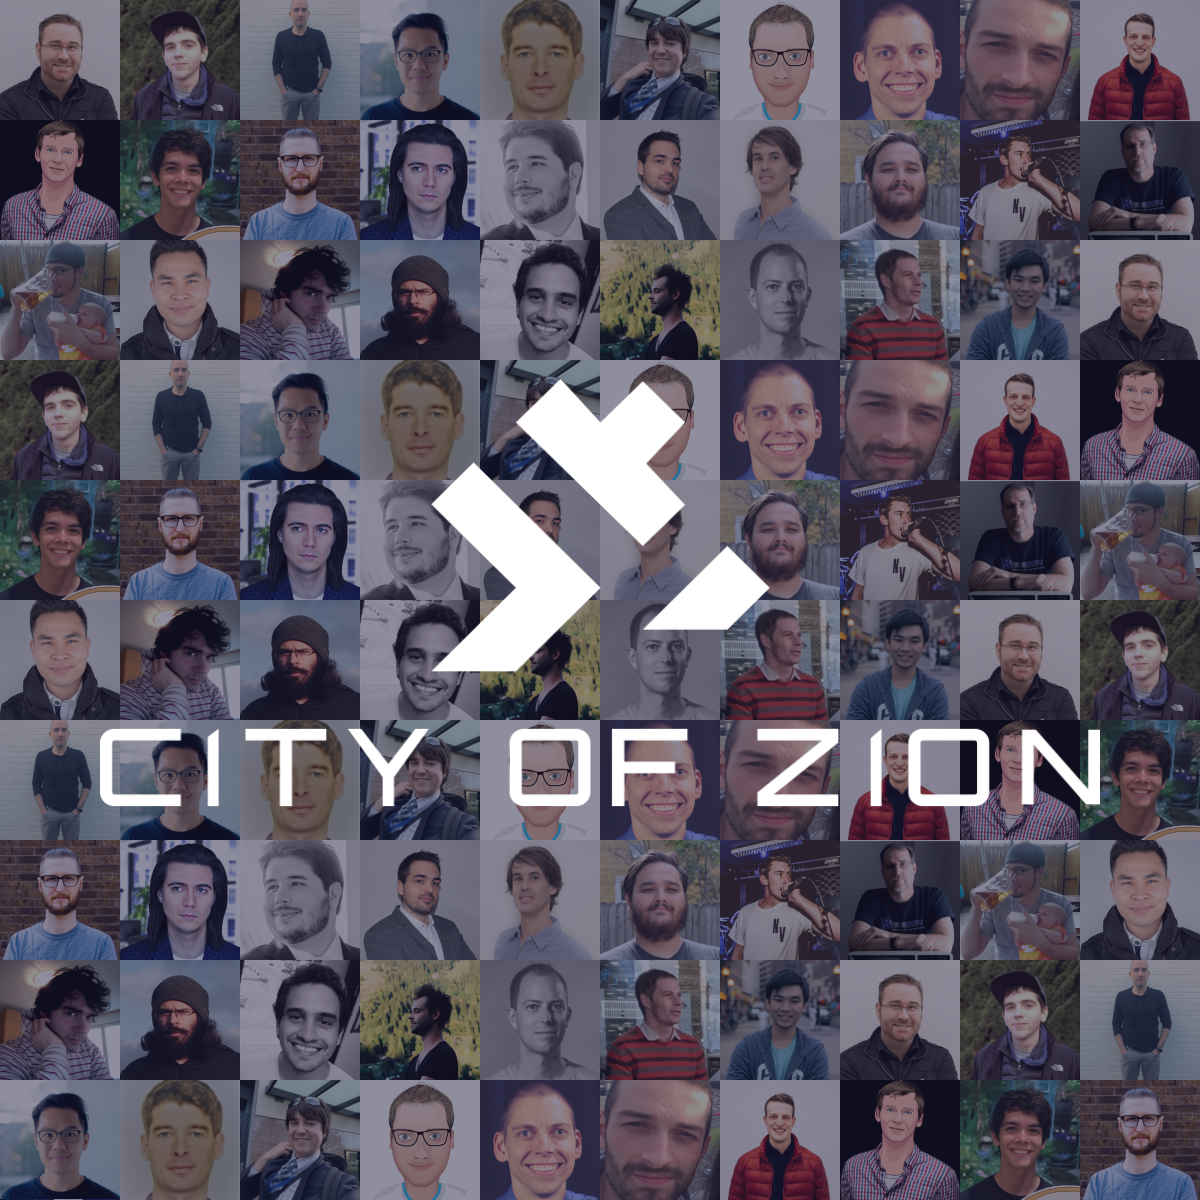
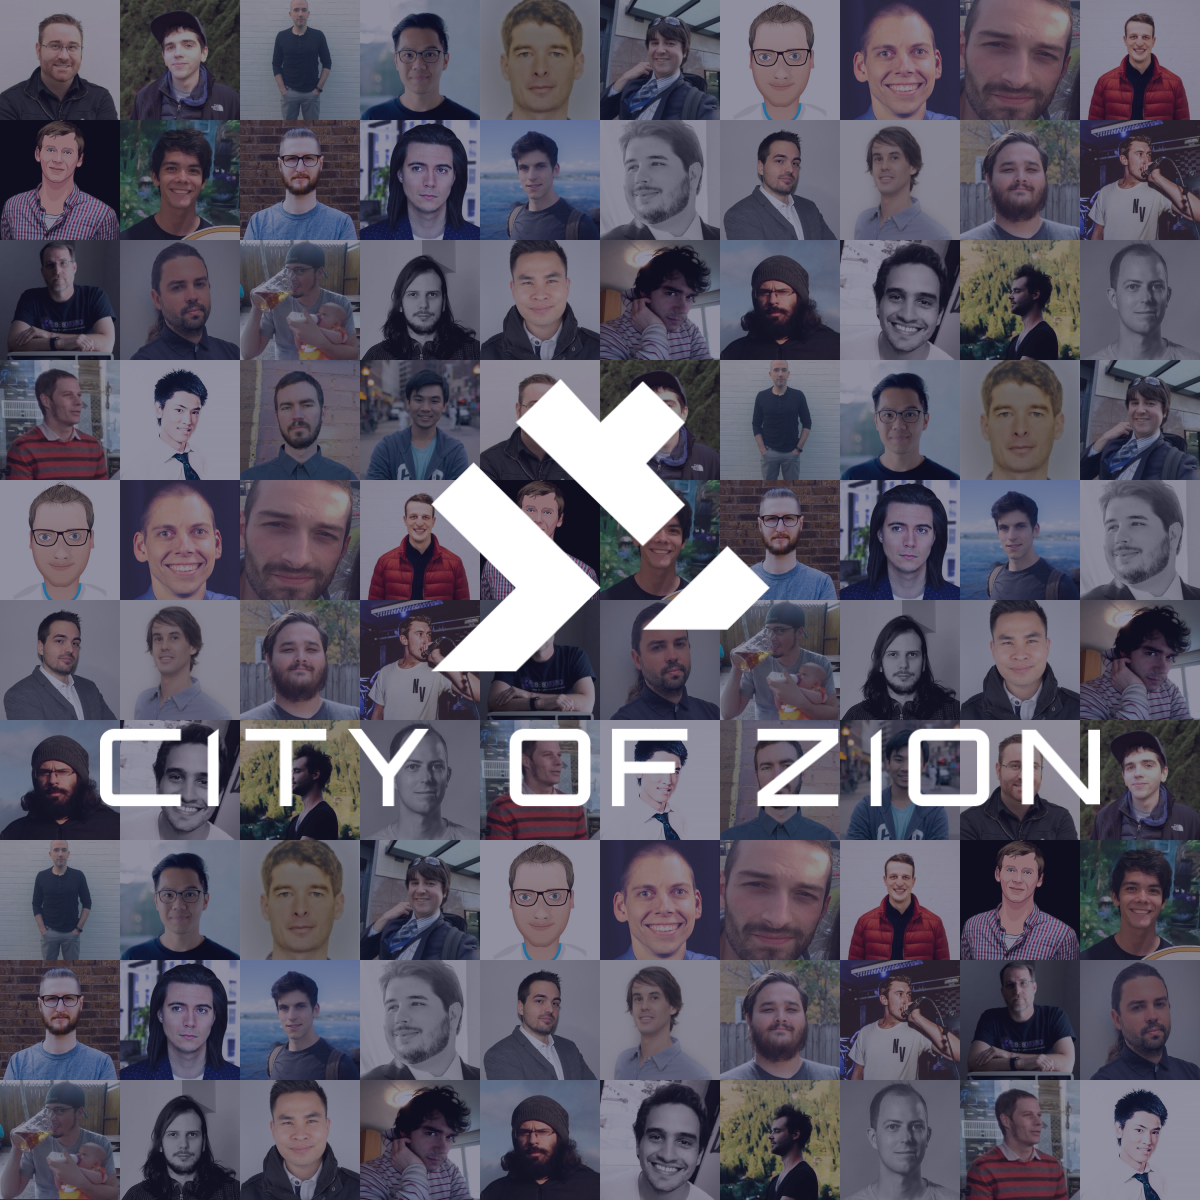
Gulp skips the anonymous image

diff --git a/gulpfile.js b/gulpfile.js
@@ -19,7 +19,6 @@ gulp.task('generateTeamOpengraph', function(callbackFinish){
 	//new arary for images
 	team_images = [];
 
-
 	function filterArray(array,pattern) {
 		return_array = [];
 		array.forEach(function(image) {
@@ -67,7 +66,9 @@ gulp.task('generateTeamOpengraph', function(callbackFinish){
     	file_reads.push(new Jimp(opengraph_width, opengraph_height,0x1D1D3FFF))
 		//loop files
 	    filenames.forEach(function(image) {
-			file_reads.push(Jimp.read(team_image_folder+"/"+image));
+		    if (image != "anonymous.jpg") {
+				file_reads.push(Jimp.read(team_image_folder+"/"+image));
+			}
 		});
 
 		Promise.all(file_reads).then(function(images) {
